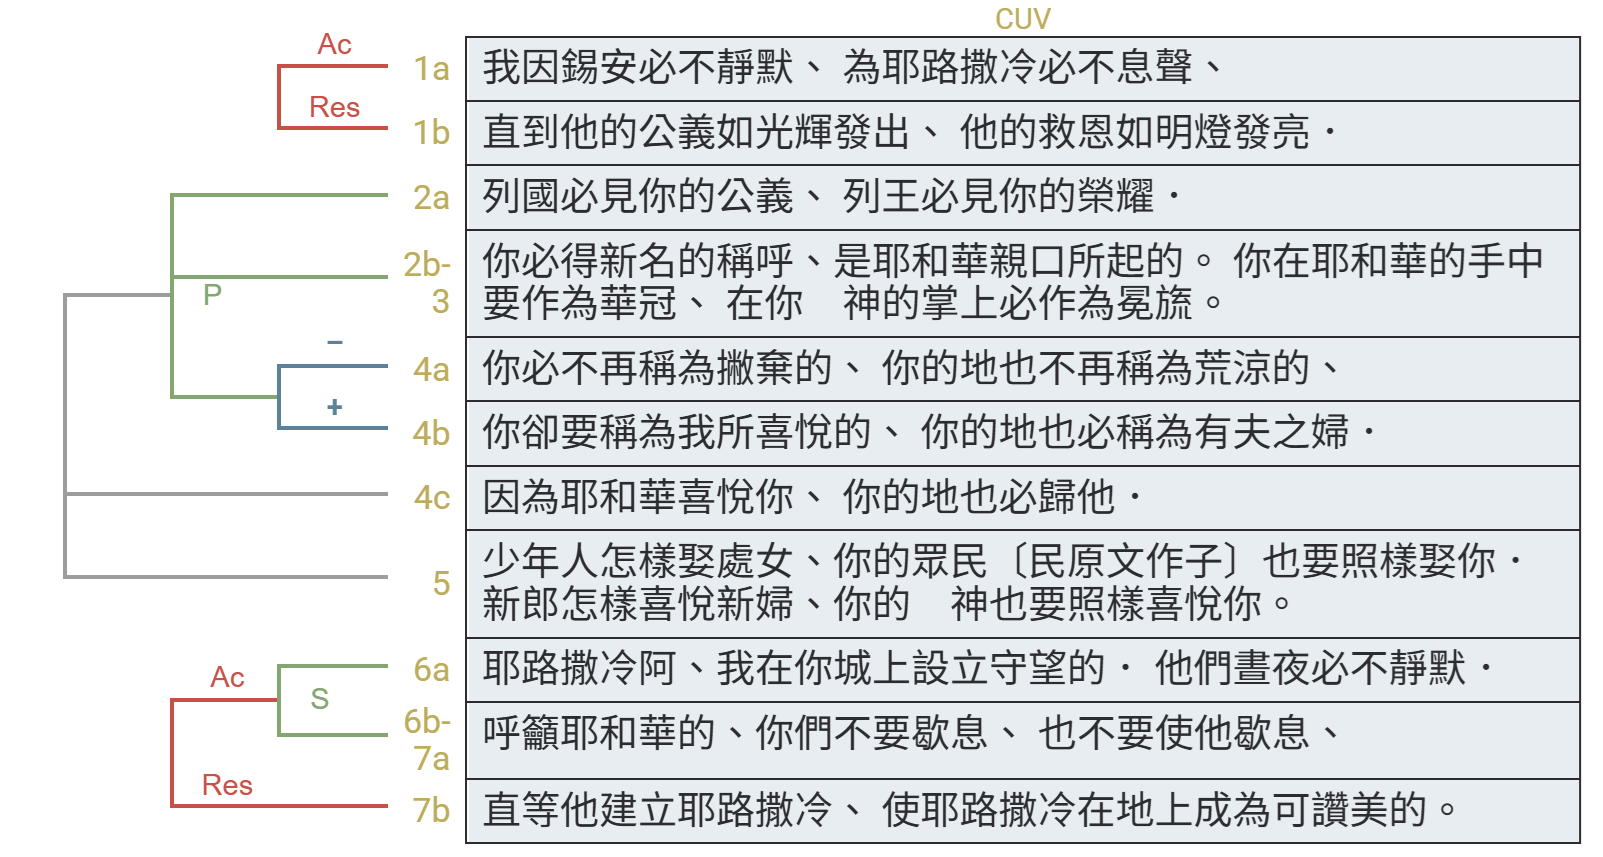
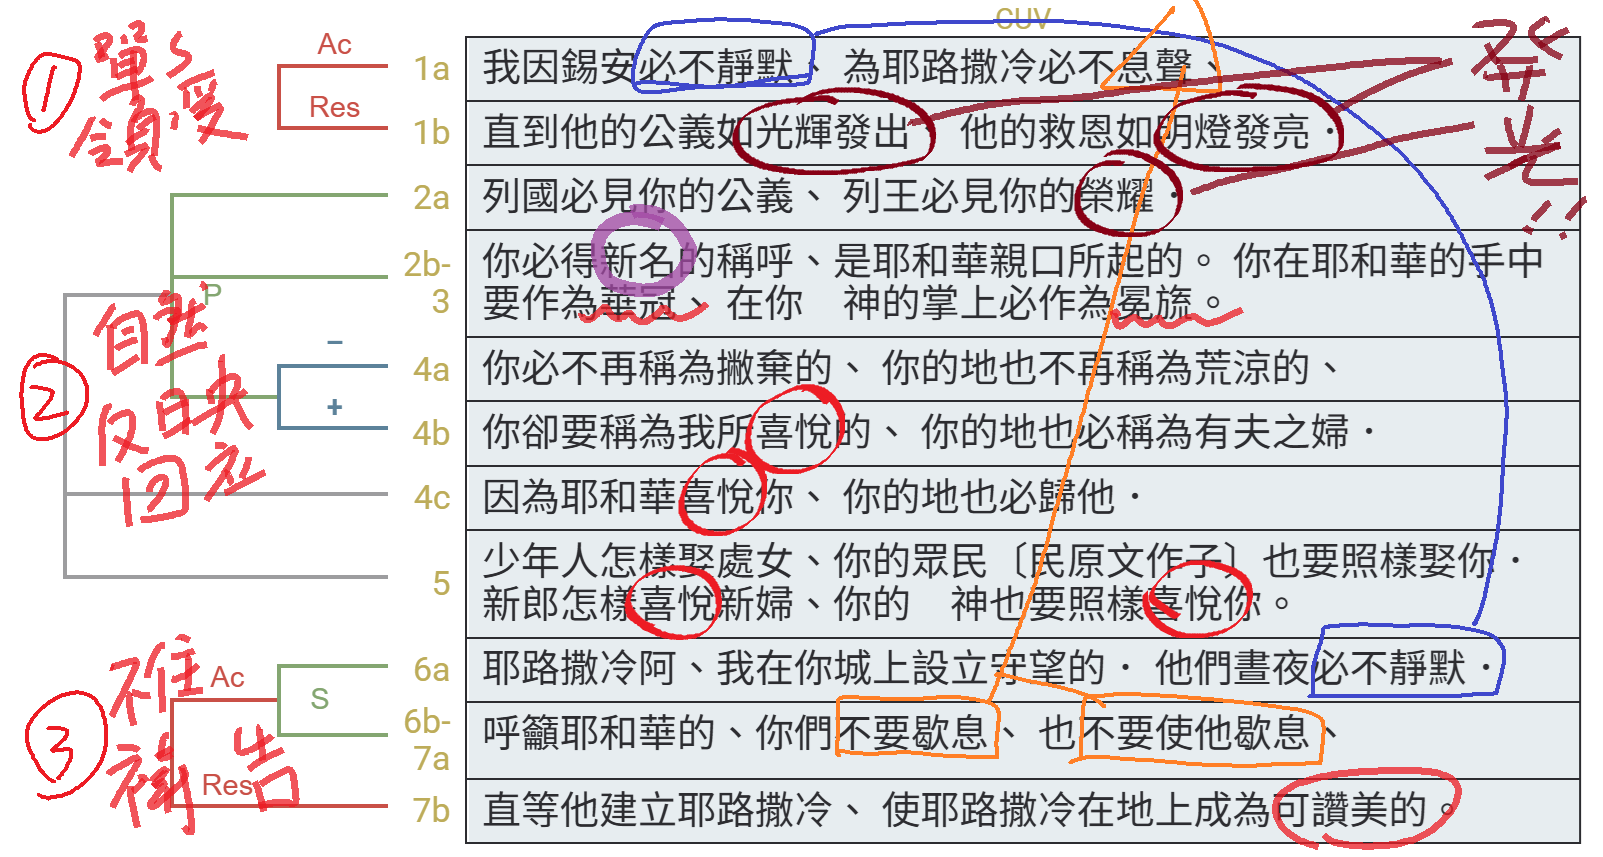
vault backup: 2025-01-18 11:27:50
Affected files:
.obsidian/app.json
.obsidian/core-plugins.json
.obsidian/workspace.json
Isa.62.1-5.md
images/2025-01-19-Isa.62.1-7.png

diff --git a/Isa.62.1-5.md b/Isa.62.1-5.md
@@ -60,7 +60,7 @@
 			- 是因著耶穌的光來到我們中間、降臨在我們身上，從而反射出來的光！
 				- 出34:29 (摩西) 自己的面皮因耶和華和他說話就發了光
 - ──────────────
-- (1) 單單地領受 (v.1)
+- (1) <mark>單單地領受</mark> (v.1)
 	- 放輕鬆，不是你的努力，而是耶穌基督的熱心、決心、旨意、命定！
 		- 耶穌大老遠從天降下、道成肉身、受苦受死，絕對不會白來一趟、白忙一場！
 		- 耶穌比你比我要更加迫切！
@@ -68,16 +68,20 @@
 		- 🚩每天起床，耶穌早安，歡迎你的光進來
 		- 🚩每天睡覺，耶穌晚安，歡迎你的光進來，
 		- 🚩騎車、考試、開會、電話、股票、吃飯、工作、家務 ... 甚至看韓劇
-	- 燈泡插電才會亮！
-- (2) 自然地反映、回應 (vv.2-5)
+	- 燈泡，要插電才會亮！
+- (2) <mark>自然地反映、回應</mark> (vv.2-5)
 	- 「刻意的」信仰不能長久😢... 早晚被揭穿😢
 	- 不是自己吆喝別人來看，是別人「必然」看見 ... (v.2a)
 	- 是由外而內，名稱 & 身分先改變──新名的稱呼 (v.2b)
 		- 亞伯蘭 → 亞伯拉罕；撒萊 → 撒拉；雅各 → 以色列
 		- 是神單方面、主動的作為 (2b)──你只要接受、願意在神手中 (v.3)
 	- 是由內而外，本質的改變，自然地 顯露
-		- 氣色真好，喜上眉梢──你有男朋友啦？
-- (2) 迫切地禱告
+		- 🚩每天宣讀、宣告、領受上帝的話語
+		- 🚩每天氣色真好，喜上眉梢──你有男朋友啦？
+	- 燈泡，在耶穌手中，插了電就一定會亮！
+- (2) <mark>不住地禱告</mark> (vv.6-7)
+	- 是耶穌基督的呼召、設立 (v.6a)
+	- 所求於管家的，是要他有忠心──不看環境，
 
 
 	- 
